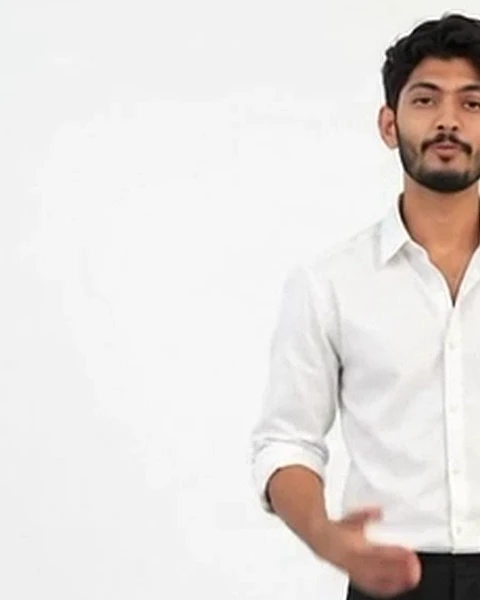
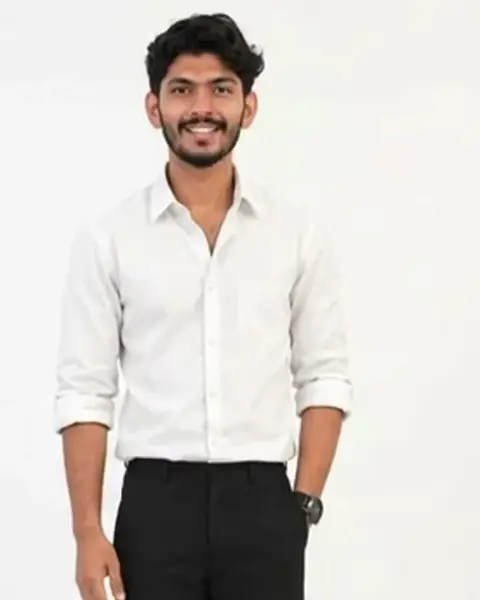
revert: restore original centered portrait for ID card

diff --git a/scripts/build-hero-assets.py b/scripts/build-hero-assets.py
@@ -180,8 +180,8 @@ def main():
     portrait = os.path.join(pub_dir, "portrait-bust.webp")
     run([
         ff, "-y", "-i", cropped,
-        "-ss", "2.5", "-frames:v", "1",
-        "-vf", "crop=460:540:0:0,scale=480:600:flags=lanczos,unsharp=3:3:0.7:3:3:0.0",
+        "-ss", "2", "-frames:v", "1",
+        "-vf", "crop=min(iw\\,480):min(ih\\,600):(iw-min(iw\\,480))/2:0,scale=480:600:flags=lanczos",
         "-q:v", "90",
         portrait
     ])
